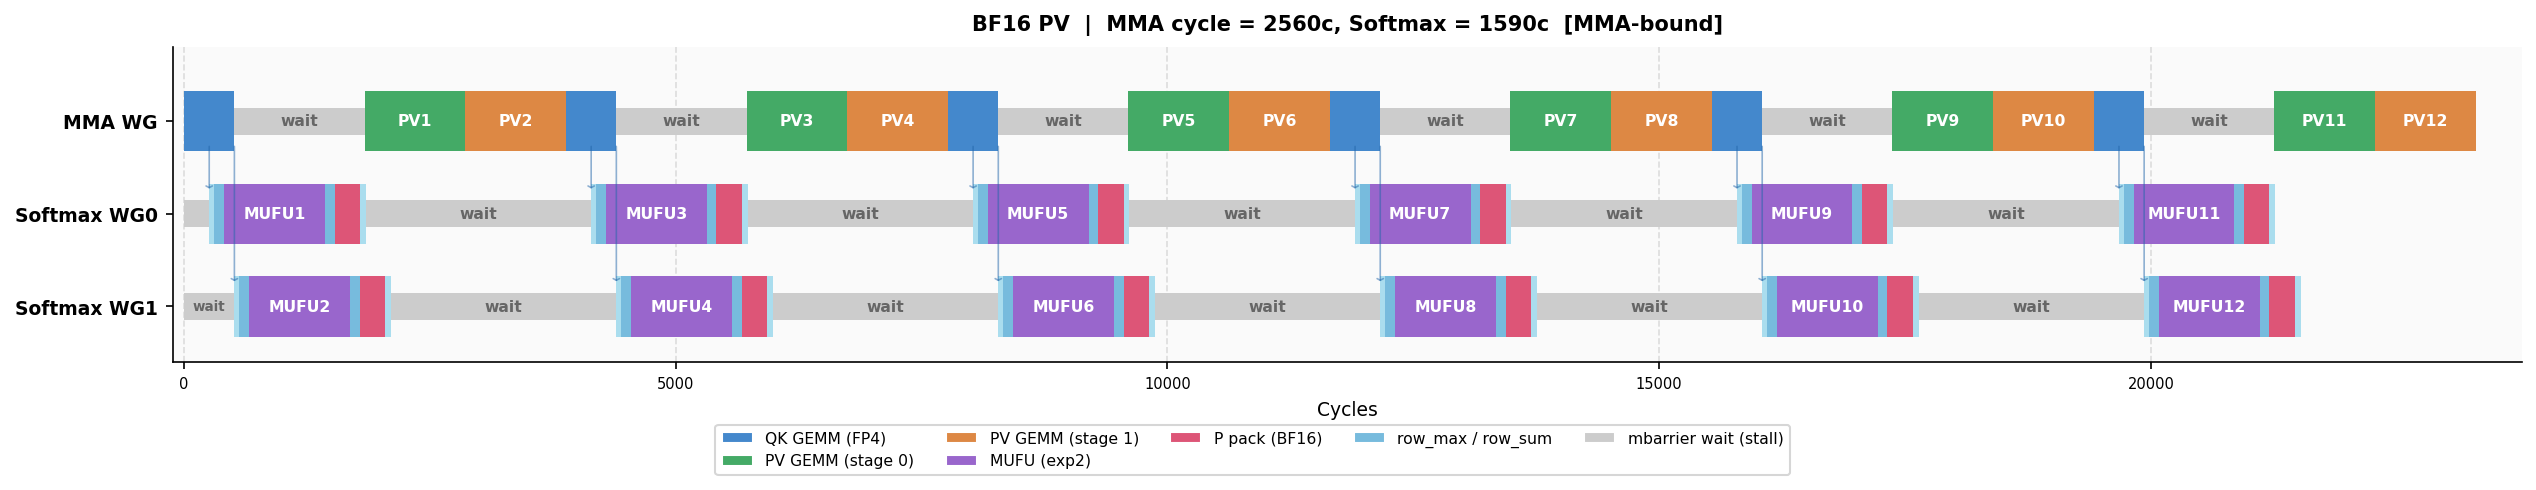
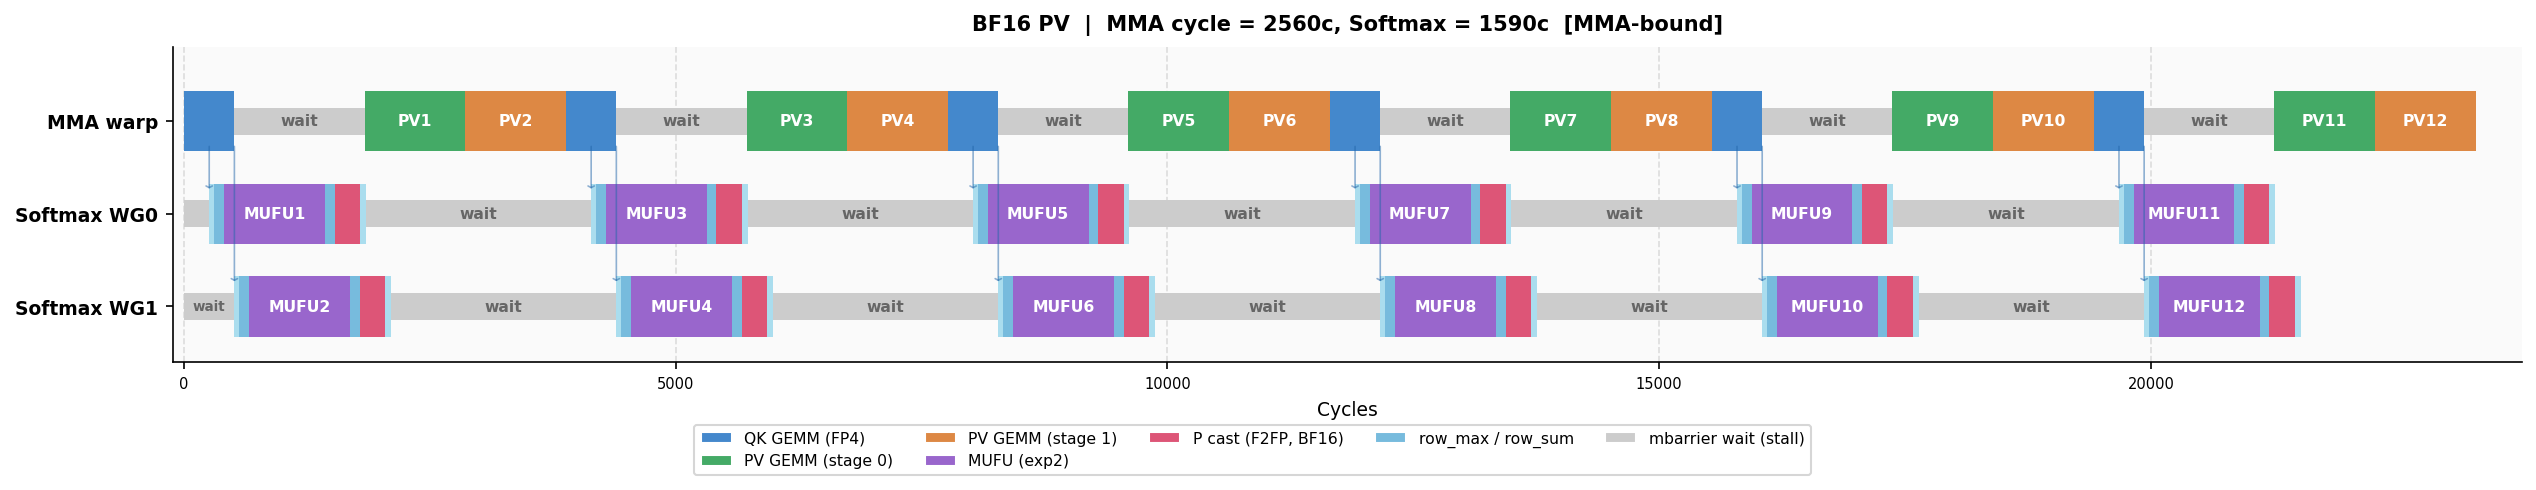
fix: graph naming — MUFU labels, P cast (F2FP), MMA warp, distinct waits
Trace and model graphs: softmax exp bars labeled MUFUn (no exp2.n
confusion); BF16/FP8 P conversion labeled "P cast (F2FP)" / F2FPn since
it is a plain cast, "P quant" reserved for FP4; "MMA WG" renamed to
"MMA warp" (it is a single warp, warp 12). The softmax-row "wait corr"
bars were nearly the same gray as the legend's wait-KV patch and had no
legend entry of their own — wait corr is now tan with its own entry, and
wait KV is near-black, marked MMA-warp-only.

Changed region(s): [[0.2804, 0.8571, 0.7165, 0.949], [0.0, 0.2143, 0.0623, 0.2755]]

diff --git a/flash_attn/cute/debug/trace_pipeline.py b/flash_attn/cute/debug/trace_pipeline.py
@@ -35,17 +35,17 @@ COLORS = {
     fa4_prof.EVT_SOFTMAX_ROWMAX: "#77BBDD",    # cyan
     fa4_prof.EVT_SOFTMAX_WAIT_S: "#CCCCCC",    # gray
     fa4_prof.EVT_SOFTMAX_STORE_P: "#AADDEE",   # light blue
-    fa4_prof.EVT_SOFTMAX_WAIT_CORR: "#999999", # darker gray
+    fa4_prof.EVT_SOFTMAX_WAIT_CORR: "#B8A98F", # tan — distinct from KV wait
     fa4_prof.EVT_MMA_WAIT_P: "#CCCCCC",        # gray
-    fa4_prof.EVT_MMA_WAIT_KV: "#888888",       # dark gray
+    fa4_prof.EVT_MMA_WAIT_KV: "#555555",       # near-black, MMA row only
     fa4_prof.EVT_PV_WAIT_P2: "#E8E8E8",        # light gray overlay on PV
 }
 
 LABELS = {
     fa4_prof.EVT_QK_GEMM: "QK",
     fa4_prof.EVT_PV_GEMM: "PV",
-    fa4_prof.EVT_SOFTMAX_EXP: "exp",
-    fa4_prof.EVT_SOFTMAX_QUANT: "quant",
+    fa4_prof.EVT_SOFTMAX_EXP: "MUFU",
+    fa4_prof.EVT_SOFTMAX_QUANT: "quant",  # overridden per PV mode in render()
     fa4_prof.EVT_SOFTMAX_ROWMAX: "ld+max",
     fa4_prof.EVT_SOFTMAX_WAIT_S: "wait S",
     fa4_prof.EVT_SOFTMAX_STORE_P: "stP",
@@ -84,7 +84,7 @@ def run_attention(pv_mode, batch, seqlen, nheads, headdim):
 def summarize(spans_by_bg, block):
     """Print per-event duration totals for the chosen block."""
     print(f"\n=== Per-event cycle totals (block {block}) ===")
-    for grp, name in [(fa4_prof.GRP_MMA, "MMA WG"),
+    for grp, name in [(fa4_prof.GRP_MMA, "MMA warp"),
                       (fa4_prof.GRP_SOFTMAX0, "Softmax WG0"),
                       (fa4_prof.GRP_SOFTMAX1, "Softmax WG1")]:
         spans = spans_by_bg.get((block, grp), [])
@@ -102,12 +102,17 @@ def summarize(spans_by_bg, block):
             print(f"  {nm:12s} n={cnt:5d} total={tot:9d} cy ({100.0*tot/total_window:5.1f}%) mean={tot/cnt:7.1f} cy")
 
 
-def render(spans_by_bg, block, output_path, title, start_iter, num_iters):
+def render(spans_by_bg, block, output_path, title, start_iter, num_iters,
+           pv_mode="bf16"):
     rows = [
-        (fa4_prof.GRP_MMA, "MMA WG"),
+        (fa4_prof.GRP_MMA, "MMA warp"),
         (fa4_prof.GRP_SOFTMAX0, "Softmax WG0"),
         (fa4_prof.GRP_SOFTMAX1, "Softmax WG1"),
     ]
+    # BF16/FP8 P conversion is a plain cast (F2FP in SASS); only FP4 does
+    # real quantization (group_max + scale + E2M1 pack).
+    quant_label = "quant" if pv_mode == "fp4" else "F2FP"
+    quant_legend = "P quant (FP4)" if pv_mode == "fp4" else "P cast (F2FP)"
 
     # Pick a steady-state window: bounded by the start of softmax WG0's
     # (start_iter)-th and (start_iter+num_iters)-th wait-S span.
@@ -165,6 +170,8 @@ def render(spans_by_bg, block, output_path, title, start_iter, num_iters):
             elif evt in (fa4_prof.EVT_SOFTMAX_EXP, fa4_prof.EVT_SOFTMAX_QUANT):
                 # Number softmax work by the PV that consumes it:
                 # WG0 -> odd PVs, WG1 -> even PVs.
+                if evt == fa4_prof.EVT_SOFTMAX_QUANT:
+                    label = quant_label
                 n = counters[evt]
                 glob = 2 * (n - 1) + (1 if grp == fa4_prof.GRP_SOFTMAX0 else 2)
                 label = f"{label}{glob}"
@@ -200,17 +207,19 @@ def render(spans_by_bg, block, output_path, title, start_iter, num_iters):
     axes[-1].set_xlabel("Cycles (%clock, same SM)")
     fig.suptitle(title, fontsize=12, fontweight="bold")
 
+    mufu_legend = "MUFU (exp2)" if pv_mode == "fp4" else "MUFU (exp2, fused cast)"
     legend = [
         mpatches.Patch(color="#4488CC", label="QK GEMM"),
         mpatches.Patch(color="#44AA66", label="PV GEMM (stage 0)"),
         mpatches.Patch(color="#DD8844", label="PV GEMM (stage 1)"),
         mpatches.Patch(color="#E8E8E8", label="wait P 2nd half (measured, inside PV)"),
-        mpatches.Patch(color="#9966CC", label="exp2 (+fused pack)"),
-        mpatches.Patch(color="#CC3355", label="P quant / pack"),
+        mpatches.Patch(color="#9966CC", label=mufu_legend),
+        mpatches.Patch(color="#CC3355", label=quant_legend),
         mpatches.Patch(color="#77BBDD", label="S load + row_max"),
         mpatches.Patch(color="#AADDEE", label="P store + signal"),
-        mpatches.Patch(color="#CCCCCC", label="wait (mbarrier)"),
-        mpatches.Patch(color="#888888", label="wait KV (TMA)"),
+        mpatches.Patch(color="#CCCCCC", label="wait S / wait P (mbarrier)"),
+        mpatches.Patch(color="#B8A98F", label="wait correction (softmax WG)"),
+        mpatches.Patch(color="#555555", label="wait KV (TMA, MMA warp only)"),
     ]
     fig.legend(handles=legend, loc="lower center", ncol=5, fontsize=8,
                bbox_to_anchor=(0.5, -0.04))
@@ -257,6 +266,7 @@ def main():
             f"block {args.block} (GB300)"
         ),
         start_iter=args.start_iter, num_iters=args.num_iters,
+        pv_mode=args.pv_mode,
     )
 
 

diff --git a/flash_attn/cute/debug/visualize_pipeline.py b/flash_attn/cute/debug/visualize_pipeline.py
@@ -3,7 +3,7 @@
 Pipeline visualization for FA4 FP4 kernel on B300 (SM103).
 
 Generates a model-based timeline chart showing pipeline overlap between:
-  - MMA WG (warp 12): QK GEMMs + PV GEMMs
+  - MMA warp (warp 12): QK GEMMs + PV GEMMs
   - Softmax WG0 (warps 0-3): even iterations (stage 0)
   - Softmax WG1 (warps 4-7): odd iterations (stage 1)
 
@@ -100,7 +100,7 @@ class PVMode:
 
 
 PV_MODES = [
-    PVMode("BF16 PV", PV_GEMM_BF16, P_PACK_BF16, COL_QUANT_BF16, "pack"),
+    PVMode("BF16 PV", PV_GEMM_BF16, P_PACK_BF16, COL_QUANT_BF16, "F2FP"),
     PVMode("FP8 PV", PV_GEMM_FP8, P_PACK_FP8, COL_QUANT_FP8, "F2FP"),
     PVMode("FP4 PV", PV_GEMM_FP4, P_QUANT_FP4, COL_QUANT_FP4, "quant"),
 ]
@@ -221,7 +221,7 @@ def simulate_pipeline(mode: PVMode, n_iter: int = 6):
         is_prologue = (it == 0)
 
         # ------------------------------------------------------------------
-        # MMA WG
+        # MMA warp
         # ------------------------------------------------------------------
 
         # PV GEMMs (skip in prologue -- no P available yet)
@@ -405,7 +405,7 @@ def render_mode(mode: PVMode, ax, n_iter: int = 6, fig_width_inches: float = 18.
     """Render a single PV mode subplot."""
     mma_ev, sm0_ev, sm1_ev, total = simulate_pipeline(mode, n_iter)
 
-    row_labels = ["MMA WG", "Softmax WG0", "Softmax WG1"]
+    row_labels = ["MMA warp", "Softmax WG0", "Softmax WG1"]
     y_positions = [2, 1, 0]
     bar_height = 0.65
 
@@ -469,9 +469,9 @@ def make_legend(fig, modes=None):
     # Per-mode quant/pack entries — only include if that mode is in the figure
     mode_colors = {m.p_quant_color for m in modes}
     if COL_QUANT_BF16 in mode_colors:
-        legend_items.append(mpatches.Patch(facecolor=COL_QUANT_BF16, edgecolor="white", label="P pack (BF16)"))
+        legend_items.append(mpatches.Patch(facecolor=COL_QUANT_BF16, edgecolor="white", label="P cast (F2FP, BF16)"))
     if COL_QUANT_FP8 in mode_colors:
-        legend_items.append(mpatches.Patch(facecolor=COL_QUANT_FP8, edgecolor="white", label="P pack (FP8 F2FP)"))
+        legend_items.append(mpatches.Patch(facecolor=COL_QUANT_FP8, edgecolor="white", label="P cast (F2FP, FP8)"))
     if COL_QUANT_FP4 in mode_colors:
         legend_items.append(mpatches.Patch(facecolor=COL_QUANT_FP4, edgecolor="white", label="P quant (FP4)"))
 
@@ -498,7 +498,7 @@ def main():
 
     fig.suptitle(
         "FA4 Kernel Pipeline: MMA vs Softmax Overlap on B300 (SM103)\n"
-        "M = N = d = 128  |  QK: FP4, MMA WG + 2 Softmax WGs (double-buffered)",
+        "M = N = d = 128  |  QK: FP4, MMA warp + 2 Softmax WGs (double-buffered)",
         fontsize=12, fontweight="bold", y=0.97,
     )
 

diff --git a/flash_attn/cute/profiler.py b/flash_attn/cute/profiler.py
@@ -194,7 +194,7 @@ GRP_SOFTMAX1 = 2
 GRP_CORRECTION = 3
 NUM_GROUPS = 4
 
-GROUP_NAMES = ["MMA WG", "Softmax WG0", "Softmax WG1", "Correction WG"]
+GROUP_NAMES = ["MMA warp", "Softmax WG0", "Softmax WG1", "Correction WG"]
 
 
 def is_profiling_enabled():

diff --git a/flash_attn/cute/debug/b300_fp4_pv_analysis.md b/flash_attn/cute/debug/b300_fp4_pv_analysis.md
@@ -68,7 +68,7 @@ Key facts:
 
 ### Pipeline Cycle Model (steady state, per iteration)
 
-MMA WG processes `q_stage=2` tiles per KV block:
+MMA warp processes `q_stage=2` tiles per KV block:
 ```
 Per KV block: PV[0] + PV[1] + QK[0] + QK[1]
 ```
@@ -85,7 +85,7 @@ packed-cvt thread-instructions (128×128 tile, 2 elements per cvt):
 
 | Component                  | BF16 PV | FP8 PV  | FP4 PV  |
 |----------------------------|---------|---------|---------|
-| **MMA WG per KV block**    |         |         |         |
+| **MMA warp per KV block**    |         |         |         |
 | QK GEMM (FP4, ×2 stages)  | 512     | 512     | 512     |
 | PV GEMM (×2 stages)       | 2048    | 1024    | 512     |
 | Total MMA per block        | 2560    | 1536    | 1024    |
@@ -108,14 +108,14 @@ The kernel has flashinfer-style timestamp instrumentation
 (`flash_attn/cute/profiler.py`), compiled in via `FA4_PROFILE_PIPELINE=1`.
 One elected lane per warpgroup records `%clock` cycles at every pipeline
 event into a gmem buffer. Run `flash_attn/cute/debug/trace_pipeline.py`
-to capture and render a trace (3 rows: MMA WG, Softmax WG0, Softmax WG1).
+to capture and render a trace (3 rows: MMA warp, Softmax WG0, Softmax WG1).
 
 Measured means per event, block 0, b=1 s=4096 h=24 d=128 (96 softmax
 iterations per WG, GB300 at 2070 MHz; cycles from %clock):
 
 | Event (mean cycles)        | BF16 PV | FP8 PV  | FP4 PV  |
 |----------------------------|---------|---------|---------|
-| **MMA WG**                 |         |         |         |
+| **MMA warp**                 |         |         |         |
 | wait P (stall)             | 841 (33%)| 950 (38%)| 1306 (42%)|
 | PV GEMM issue              | 560     | 405     | 549     |
 | QK GEMM issue              | 262     | 267     | 246     |
@@ -129,7 +129,7 @@ iterations per WG, GB300 at 2070 MHz; cycles from %clock):
 | wait corr                  | 867     | 173     | 1013    |
 
 Real-trace findings:
-- Even BF16 PV is partially softmax-bound on GB300: the MMA WG spends 33%
+- Even BF16 PV is partially softmax-bound on GB300: the MMA warp spends 33%
   of its time waiting for P. The exp2 span (which includes the fused BF16
   pack) measures ~1580 cycles — well above the 512-cycle MUFU-only roofline,
   because both softmax WGs contend for the SM and the span includes the
@@ -140,9 +140,9 @@ Real-trace findings:
   BF16, pushing MMA wait-P to 38%.
 - FP4 PV: P quantization measures ~1283 cycles per iteration on top of the
   same exp2 cost — the softmax iteration grows from ~2,700 to ~3,700 cycles
-  while the PV GEMM gets cheaper, so the MMA WG stalls 42% of the time.
+  while the PV GEMM gets cheaper, so the MMA warp stalls 42% of the time.
 - GEMM *issue* spans are short (250-560 cycles) — tcgen05 MMAs execute
-  asynchronously, so the MMA WG's real exposure is the waits, exactly what
+  asynchronously, so the MMA warp's real exposure is the waits, exactly what
   the trace shows.
 - The PV issue sequence embeds a second wait: softmax stores P in two halves
   (`mbar_P_full_O_rescaled`, then `mbar_P_full_2`), and `gemm_ptx_partial`
@@ -161,7 +161,7 @@ Real-trace findings:
 The MMA WG must complete the full PV+QK cycle before the softmax results
 from the same stage are needed again. With ping-pong, each softmax WG has
 the entire MMA block cycle to complete its work. When softmax takes longer
-than the MMA cycle, the MMA WG stalls waiting for P_full.
+than the MMA cycle, the MMA warp stalls waiting for P_full.
 
 ## PTX Instruction Analysis
 
